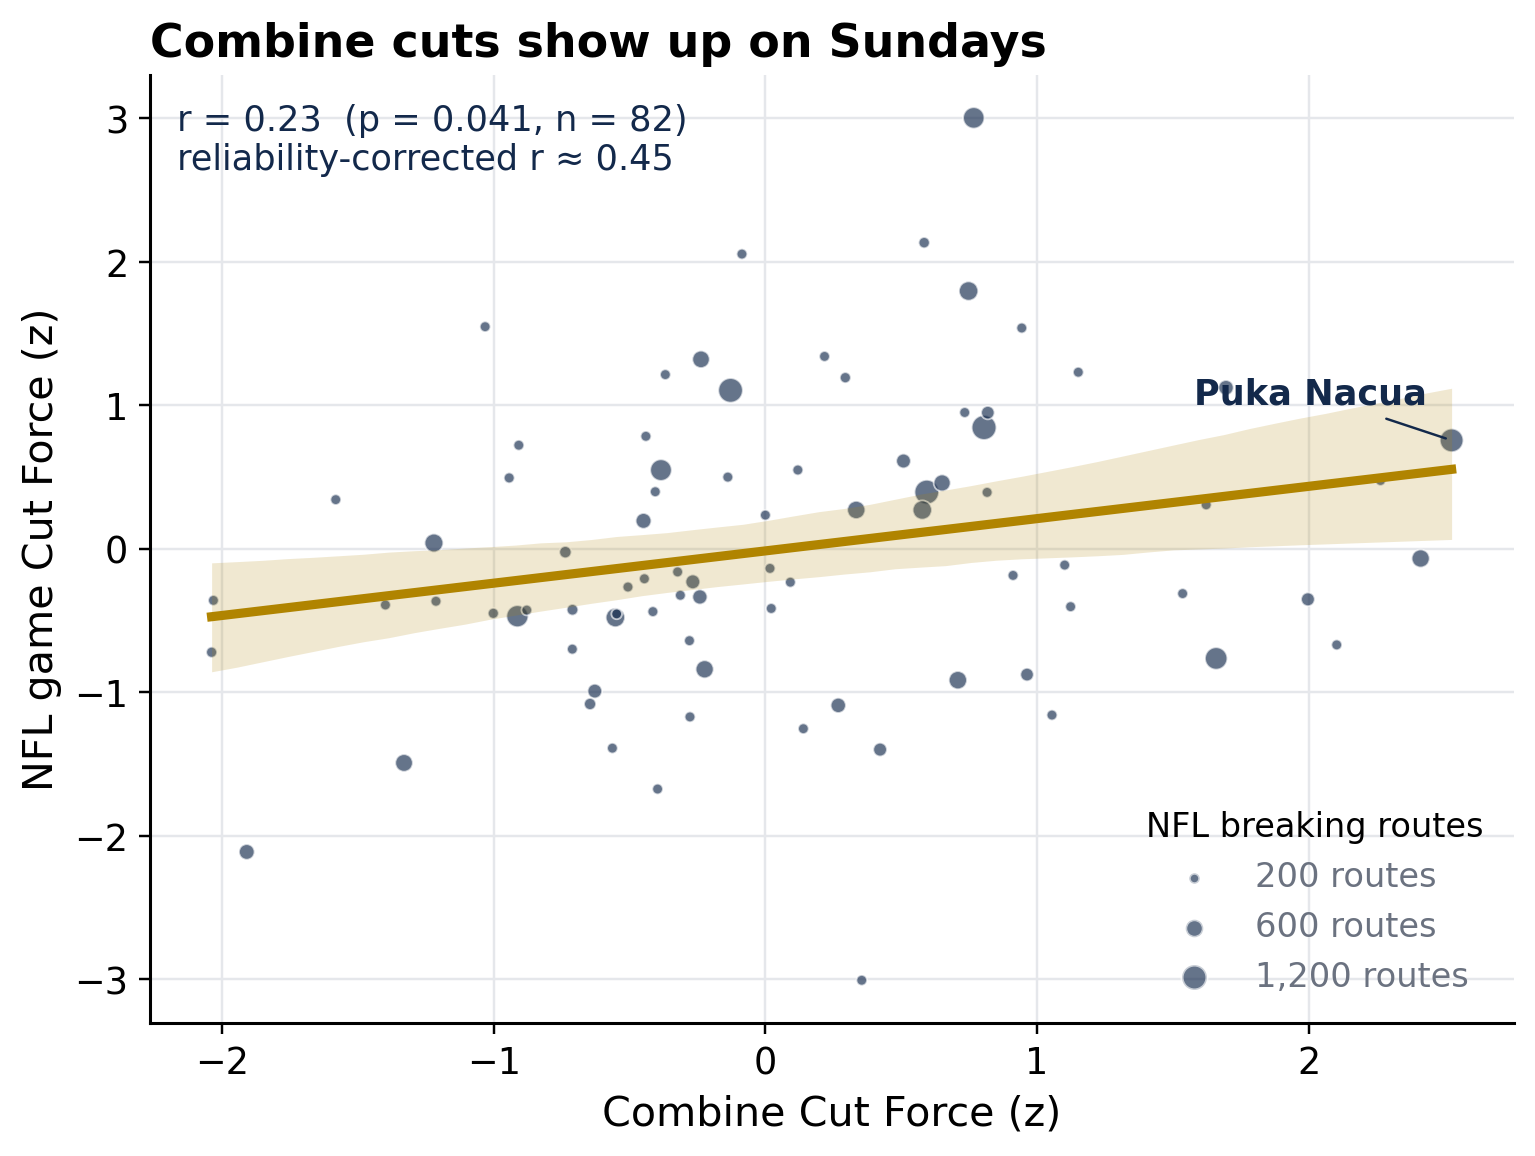
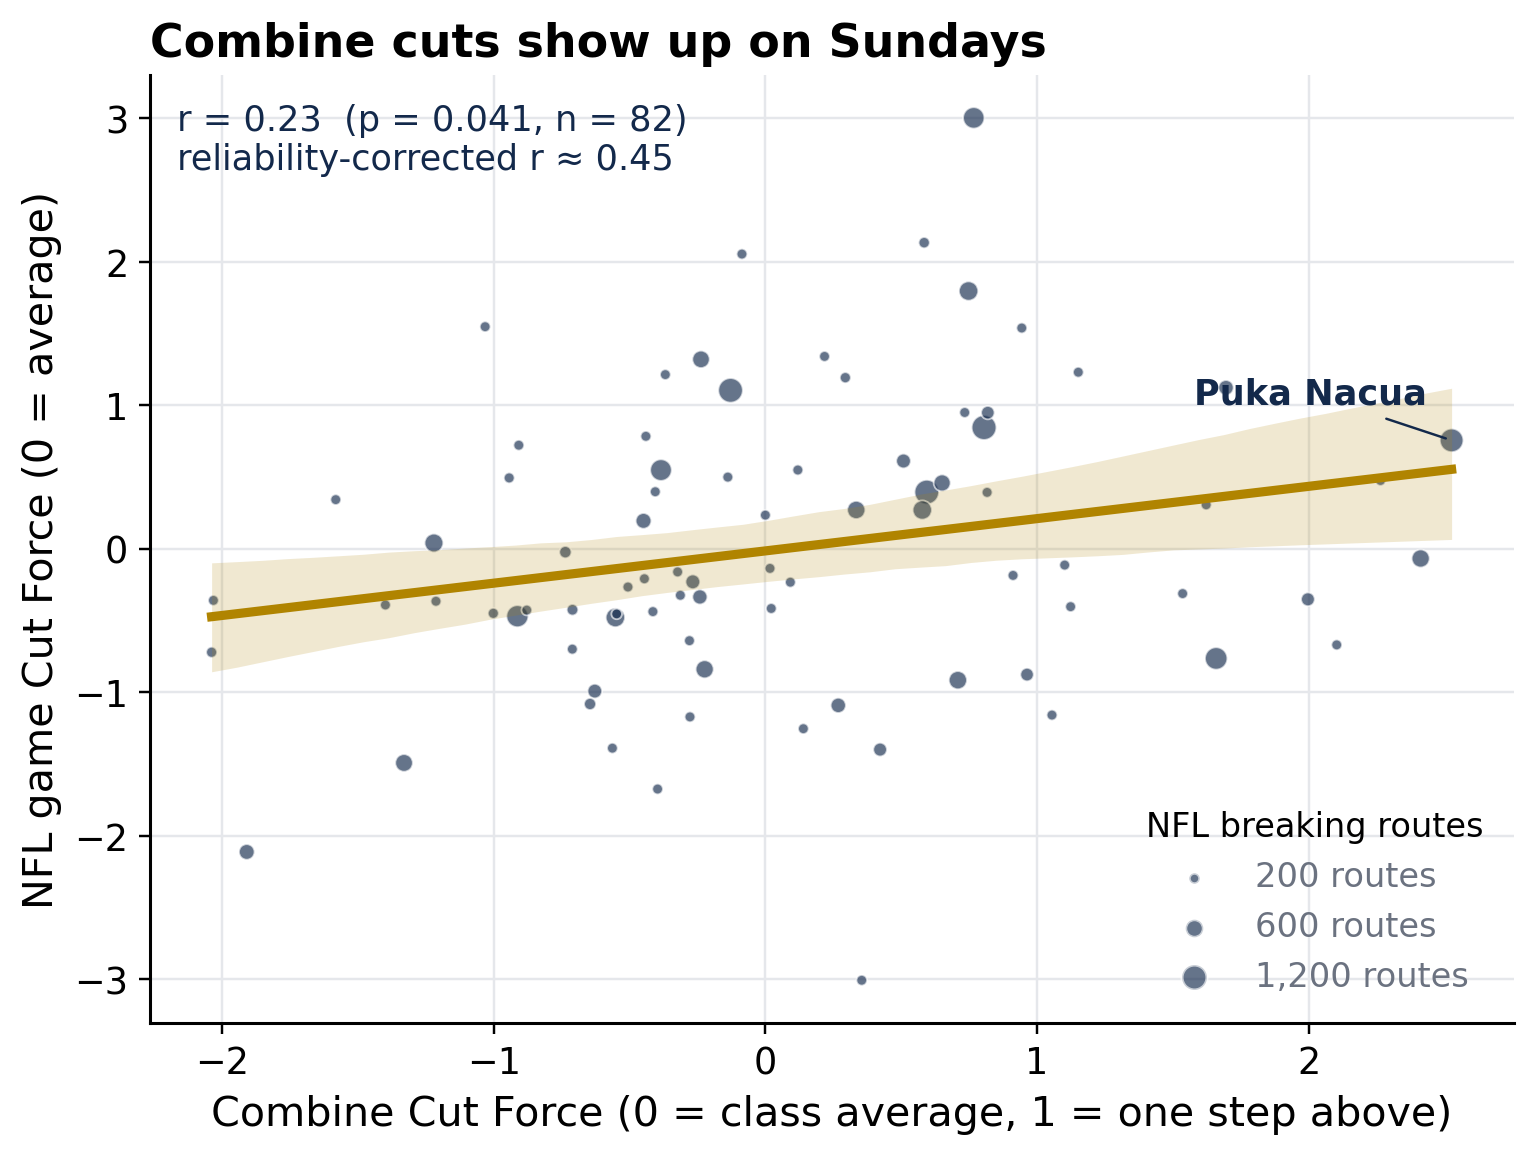
Notebook Version 24 and relabeled figures
Plain-language axis labels and legends on Figures 2, 3 and 4, rendered at
print resolution from the Kaggle run.

diff --git a/notes/review_checklist.md b/notes/review_checklist.md
@@ -87,3 +87,5 @@ Status as of Wed Oct 14 (writeup v-Oct14 pushed): SUBMITTED, Open Track, editabl
 - Nov 18: one-page Professional Summary for Phase III (optional 5 pts): Kelley_PhaseIII_CutForce_Summary.pdf in School/TESM 501 Master/Phase 1-3 Project/Phase III/. Numbers from writeup.md (Version 20/21 audit).
 - Phase III Canvas: due Fri Dec 11, 2026 5pm, 75 pts, submission types Text / Web URL / Upload, unlimited attempts. Plan: Upload the summary PDF and paste the public notebook URL in the comment. Individual work, so no contribution narrative.
 - OPEN: confirm Version 22 ran clean (13 charts, no tracebacks) and the public page shows "Version 22 of 22" with the new section headers.
+
+- Nov 18: Version 23 (plain-language axis labels and legends) and Version 24 (inline figures at 220 dpi) ran clean. Figures 2, 3 and 4 in writeup/figures are the Version 24 renders.

diff --git a/README.md b/README.md
@@ -28,7 +28,7 @@ Deceleration into the break, acceleration out of it, and speed kept through it w
 ## What is in this repo
 
 ```
-notebook/    cut_force_bdb2027.ipynb      the Kaggle notebook (Version 23), organized by the seven Big Data Bowl sections
+notebook/    cut_force_bdb2027.ipynb      the Kaggle notebook (Version 24), organized by the seven Big Data Bowl sections
 writeup/     writeup.md + figures/        the competition writeup, figures as submitted
 analysis/    *.py, json                   the working scripts behind each section (alignment, features, Bayesian model,
                                           sensitivity, break phases, defensive backs, load, interactive figure builds)
